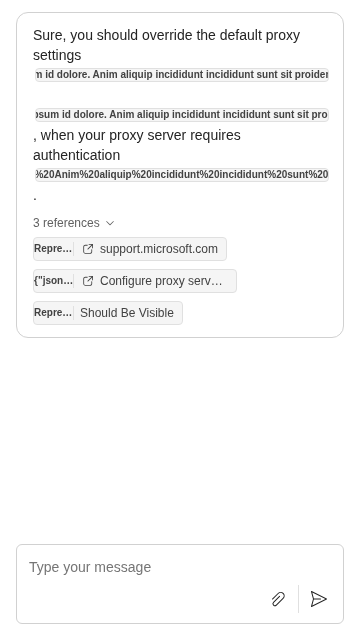
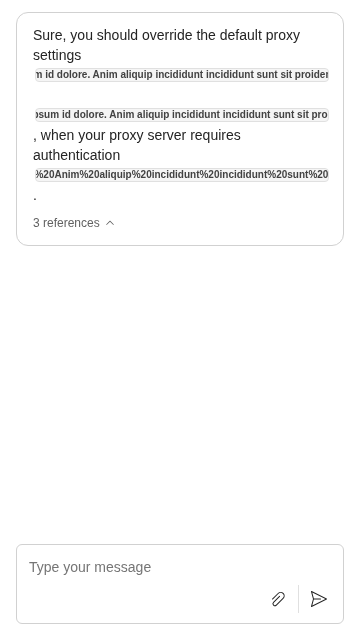
Add references visibility style option

Changed region(s): [[0.0917, 0.3438, 0.6417, 0.5], [0.0306, 0.375, 0.0611, 0.4062]]

diff --git a/__tests__/html2/citation/showModal.linkDefinitions.html b/__tests__/html2/citation/showModal.linkDefinitions.html
@@ -1,23 +1,66 @@
-<!DOCTYPE html>
+<!doctype html>
 <html lang="en-US">
   <head>
     <link href="/assets/index.css" rel="stylesheet" type="text/css" />
+    <script type="importmap">
+      {
+        "imports": {
+          "@fluentui/react-provider": "/__dist__/packages/test/test-assets/out/@fluentui/react-provider.js",
+          "@fluentui/tokens": "/__dist__/packages/test/test-assets/out/@fluentui/tokens.js",
+          "react": "https://esm.sh/react@18",
+          "react-dom": "https://esm.sh/react-dom@18",
+          "react-dom/": "https://esm.sh/react-dom@18/",
+          "react-jsx-runtime": "https://esm.sh/react@18/jsx-runtime"
+        }
+      }
+    </script>
     <script crossorigin="anonymous" src="/test-harness.js"></script>
     <script crossorigin="anonymous" src="/test-page-object.js"></script>
-    <script crossorigin="anonymous" src="/__dist__/webchat-es5.js"></script>
+    <script type="module">
+      import React from 'react';
+      window.React = React;
+    </script>
+    <script defer crossorigin="anonymous" src="/__dist__/webchat-es5.js"></script>
+    <script defer crossorigin="anonymous" src="/__dist__/botframework-webchat-fluent-theme.production.min.js"></script>
+    <style type="text/css">
+      .fui-FluentProvider {
+        height: 100%;
+      }
+    </style>
   </head>
   <body>
     <main id="webchat"></main>
-    <script>
+    <script type="module">
+      import { FluentProvider } from '@fluentui/react-provider';
+      import { webLightTheme } from '@fluentui/tokens';
+      import React from 'react';
+      import { createRoot } from 'react-dom/client';
+
       run(async function () {
+        const {
+          WebChat: { FluentThemeProvider, ReactWebChat }
+        } = window;
+
         const { directLine, store } = testHelpers.createDirectLineEmulator();
 
-        WebChat.renderWebChat(
-          {
-            directLine,
-            store
-          },
-          document.getElementById('webchat')
+        const searchParams = new URLSearchParams(location.search);
+        const variant = searchParams.get('variant');
+
+        if (variant) {
+          window.checkAccessibility = async () => {};
+        }
+
+        const root = createRoot(document.getElementById('webchat'));
+        const webChatProps = { directLine, store };
+
+        root.render(
+          variant
+            ? React.createElement(
+                FluentProvider,
+                { className: 'fui-FluentProvider', theme: webLightTheme },
+                React.createElement(FluentThemeProvider, { variant }, React.createElement(ReactWebChat, webChatProps))
+              )
+            : React.createElement(ReactWebChat, webChatProps)
         );
 
         await pageConditions.uiConnected();
@@ -41,6 +84,14 @@
 `,
           type: 'message'
         });
+
+        // When (copilot): opening the link definitions
+        if (variant === 'copilot') {
+          // Then (copilot): the link definitions should be closed
+          await host.snapshot('local');
+
+          await host.click(pageElements.linkDefinitions()[0].querySelector('summary'));
+        }
 
         const linkDefinitionItems = pageElements.linkDefinitions()[0].querySelectorAll('[role="listitem"] > *');
 

diff --git a/__tests__/html2/citation/accordion.html b/__tests__/html2/citation/accordion.html
@@ -1,23 +1,66 @@
-<!DOCTYPE html>
+<!doctype html>
 <html lang="en-US">
   <head>
     <link href="/assets/index.css" rel="stylesheet" type="text/css" />
+    <script type="importmap">
+      {
+        "imports": {
+          "@fluentui/react-provider": "/__dist__/packages/test/test-assets/out/@fluentui/react-provider.js",
+          "@fluentui/tokens": "/__dist__/packages/test/test-assets/out/@fluentui/tokens.js",
+          "react": "https://esm.sh/react@18",
+          "react-dom": "https://esm.sh/react-dom@18",
+          "react-dom/": "https://esm.sh/react-dom@18/",
+          "react-jsx-runtime": "https://esm.sh/react@18/jsx-runtime"
+        }
+      }
+    </script>
     <script crossorigin="anonymous" src="/test-harness.js"></script>
     <script crossorigin="anonymous" src="/test-page-object.js"></script>
-    <script crossorigin="anonymous" src="/__dist__/webchat-es5.js"></script>
+    <script type="module">
+      import React from 'react';
+      window.React = React;
+    </script>
+    <script defer crossorigin="anonymous" src="/__dist__/webchat-es5.js"></script>
+    <script defer crossorigin="anonymous" src="/__dist__/botframework-webchat-fluent-theme.production.min.js"></script>
+    <style type="text/css">
+      .fui-FluentProvider {
+        height: 100%;
+      }
+    </style>
   </head>
   <body>
     <main id="webchat"></main>
-    <script>
+    <script type="module">
+      import { FluentProvider } from '@fluentui/react-provider';
+      import { webLightTheme } from '@fluentui/tokens';
+      import React from 'react';
+      import { createRoot } from 'react-dom/client';
+
       run(async function () {
+        const {
+          WebChat: { FluentThemeProvider, ReactWebChat }
+        } = window;
+
         const { directLine, store } = testHelpers.createDirectLineEmulator();
 
-        WebChat.renderWebChat(
-          {
-            directLine,
-            store
-          },
-          document.getElementById('webchat')
+        const searchParams = new URLSearchParams(location.search);
+        const variant = searchParams.get('variant');
+
+        if (variant) {
+          window.checkAccessibility = async () => {};
+        }
+
+        const root = createRoot(document.getElementById('webchat'));
+        const webChatProps = { directLine, store };
+
+        root.render(
+          variant
+            ? React.createElement(
+                FluentProvider,
+                { className: 'fui-FluentProvider', theme: webLightTheme },
+                React.createElement(FluentThemeProvider, { variant }, React.createElement(ReactWebChat, webChatProps))
+              )
+            : React.createElement(ReactWebChat, webChatProps)
         );
 
         await pageConditions.uiConnected();

diff --git a/packages/component/src/LinkDefinition/LinkDefinitions.tsx b/packages/component/src/LinkDefinition/LinkDefinitions.tsx
@@ -5,6 +5,7 @@ import random from 'math-random';
 import React, {
   Children,
   useCallback,
+  useMemo,
   useRef,
   useState,
   type ComponentType,
@@ -16,7 +17,7 @@ import { ComponentIcon } from '../Icon';
 
 import styles from './LinkDefinitions.module.css';
 
-const { useLocalizer } = hooks;
+const { useLocalizer, useStyleOptions } = hooks;
 const { count: childrenCount, map: childrenMap } = Children;
 
 type Props<TAccessoryProps> = Readonly<{
@@ -54,8 +55,14 @@ const LinkDefinitions = <TAccessoryProps extends {}>({
   const localizeWithPlural = useLocalizer({ plural: true });
   const summaryRef = useRef<HTMLElement>(null);
   const classNames = useStyles(styles);
+  const [{ linkDefinitionsDefaultOpen }] = useStyleOptions();
 
   const headerText = localizeWithPlural(REFERENCE_LIST_HEADER_IDS, childrenCount(children));
+
+  const defaultOpenString = useMemo(
+    () => (linkDefinitionsDefaultOpen ? 'true' : 'false'),
+    [linkDefinitionsDefaultOpen]
+  );
 
   const handleToggle = useCallback<ReactEventHandler<HTMLDetailsElement>>(event => {
     const summary = summaryRef.current;
@@ -73,12 +80,12 @@ const LinkDefinitions = <TAccessoryProps extends {}>({
       // eslint-disable-next-line react/forbid-dom-props
       id={id}
       onToggle={handleToggle}
-      open={true}
+      open={linkDefinitionsDefaultOpen}
     >
       <summary
         aria-controls={id}
-        aria-expanded="true"
-        aria-pressed="true"
+        aria-expanded={defaultOpenString}
+        aria-pressed={defaultOpenString}
         className={classNames['link-definitions__header']}
         ref={summaryRef}
         role="button"

diff --git a/__tests__/html2/activity/citation.longRef.html b/__tests__/html2/activity/citation.longRef.html
@@ -15,7 +15,7 @@
       run(async function () {
         const { directLine, store } = testHelpers.createDirectLineEmulator();
 
-        renderWebChat(
+        const { isCopilotVariant } = renderWebChat(
           {
             directLine,
             store
@@ -69,6 +69,14 @@
         );
 
         expect(markdownButtons[0].getAttribute('type')).toBe('button');
+
+        // When (copilot): opening the link definitions
+        if (isCopilotVariant) {
+          await host.click(pageElements.linkDefinitions()[0].querySelector('summary'));
+
+          // Then (copilot): the link definitions should be opened
+          await host.snapshot('local');
+        }
 
         const linkDefinitionItems = pageElements.linkDefinitions()[0].querySelectorAll('[role="listitem"] > *');
 

diff --git a/packages/api/src/StyleOptions.ts b/packages/api/src/StyleOptions.ts
@@ -974,6 +974,13 @@ type StyleOptions = {
   collapsibleGroupingDefaultOpen?: boolean | undefined;
 
   /**
+   * Whether link definitions (citation references) are open by default.
+   *
+   * @default true
+   */
+  linkDefinitionsDefaultOpen?: boolean | undefined;
+
+  /**
    * Defines how activities are being grouped by (in the order of appearance in the array). Default to `['sender', 'status', 'part']` or `sender,status` in CSS.
    *
    * Values are key of result of `groupActivitiesMiddleware`. The default implementation of `groupActivitiesMiddleware` has `sender`, `status`, and `part`.

diff --git a/__tests__/html2/linkDefinition/badge.html b/__tests__/html2/linkDefinition/badge.html
@@ -181,6 +181,11 @@
 
         await host.snapshot('local');
 
+        // When (copilot): opening the link definitions since they start closed
+        if (variant) {
+          await host.click(pageElements.linkDefinitions()[0].querySelector('summary'));
+        }
+
         const [firstActivityElement] = pageElements.activities();
 
         const linkDefinitions = firstActivityElement.querySelectorAll('.link-definitions__list-item');

diff --git a/packages/fluent-theme/src/private/FluentThemeProvider.tsx b/packages/fluent-theme/src/private/FluentThemeProvider.tsx
@@ -104,7 +104,7 @@ function FluentThemeProvider(props: FluentThemeProviderProps) {
   const fluentStyleOptions = useMemo(
     () =>
       Object.freeze({
-        ...(variant === 'copilot' && { collapsibleGroupingDefaultOpen: false }),
+        ...(variant === 'copilot' && { collapsibleGroupingDefaultOpen: false, linkDefinitionsDefaultOpen: false }),
         feedbackActionsPlacement: 'activity-actions',
         stylesRoot
       }),

diff --git a/packages/api/src/defaultStyleOptions.ts b/packages/api/src/defaultStyleOptions.ts
@@ -314,6 +314,7 @@ const DEFAULT_OPTIONS: Required<StyleOptions> = {
   speechRecognitionContinuous: false,
 
   collapsibleGroupingDefaultOpen: true,
+  linkDefinitionsDefaultOpen: true,
   groupActivitiesBy: ['sender', 'status', 'part'],
 
   // Send box attachment bar

diff --git a/__tests__/html2/citation/showModal.linkDefinitions.copilot.html b/__tests__/html2/citation/showModal.linkDefinitions.copilot.html
@@ -1,0 +1,10 @@
+<!doctype html>
+<html>
+  <head>
+    <title>Citation show modal link definitions (copilot)</title>
+    <script>
+      location = './showModal.linkDefinitions?variant=copilot';
+    </script>
+  </head>
+  <body></body>
+</html>

diff --git a/__tests__/html2/citation/accordion.copilot.html b/__tests__/html2/citation/accordion.copilot.html
@@ -1,0 +1,10 @@
+<!doctype html>
+<html>
+  <head>
+    <title>Citation accordion (copilot)</title>
+    <script>
+      location = './accordion?variant=copilot';
+    </script>
+  </head>
+  <body></body>
+</html>
